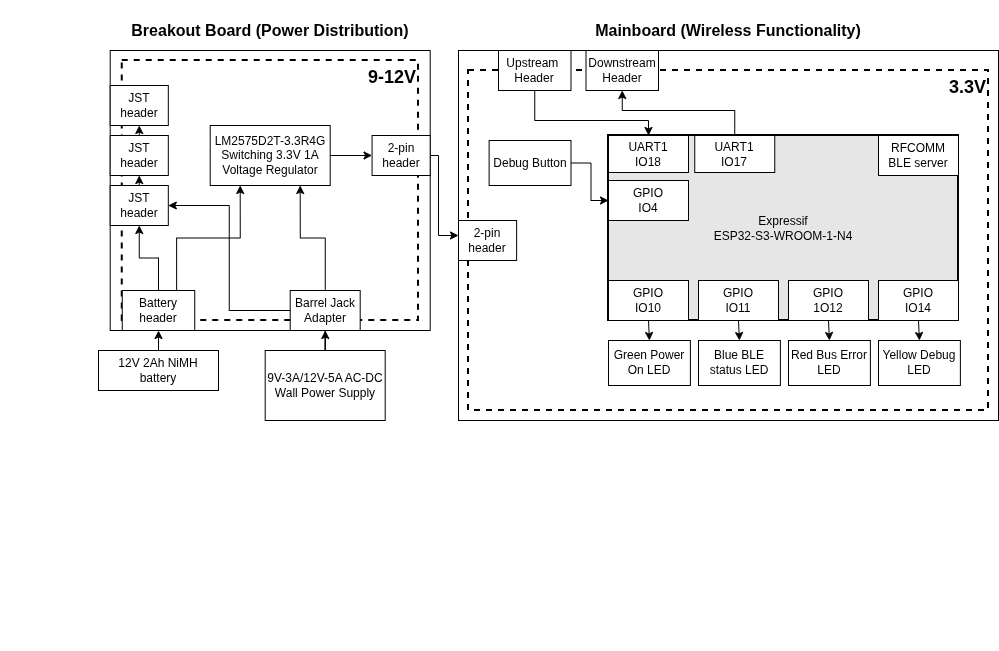
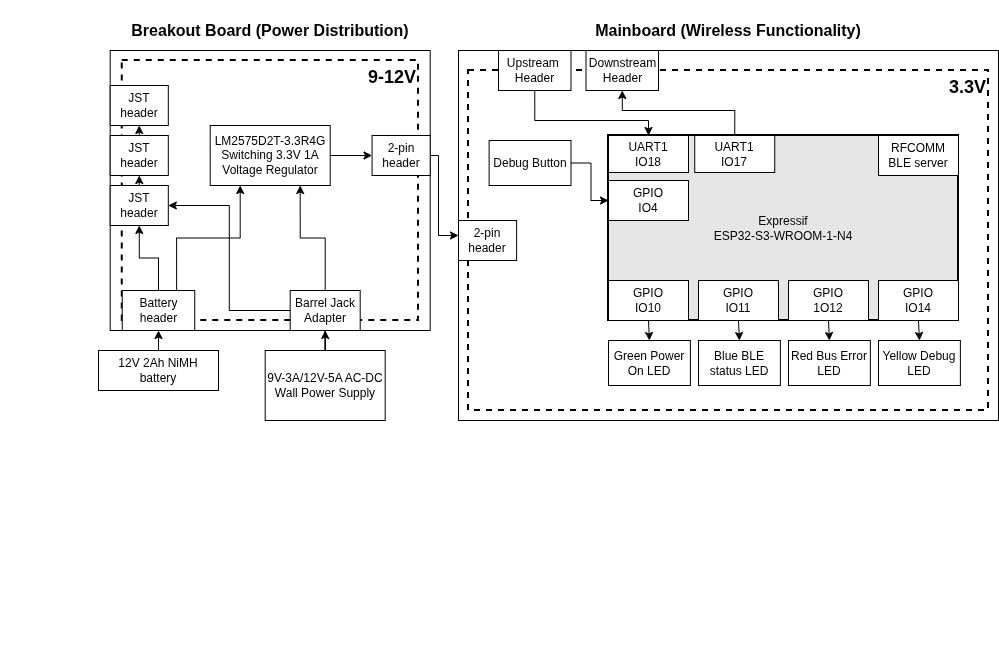
fixes

diff --git a/docs/10-Hardware V2/hardwarev2.md b/docs/10-Hardware V2/hardwarev2.md
@@ -1,8 +1,8 @@
 ---
 title: Module Future Improvements
 ---
-As mentioned in other section, this board currently lacks the ability to regulate or recharge it's battery by itself. For this demo, we used a NiMH battery with an external charger, which allowed us to bypass this restriction. This is a relatively cumbersome process which requires the battery to be unplugged, a temperature sensor to be connected to the center of the pack, and the battery to be reinserted after charging.
-A future improvement would be to add an integrated charging circuit. The schematic for such an improvement can be downloaded as a [pdf](A3_V1.pdf) or a [kicad project](A3_V1.zip).
-Aside from the battery charging system, major improvements would include adding external power breakout headers for debugging. When solving the power regulator issues, there was no simple way to supply 3.3V power to the system, so leads had to be soldered opportunistically.
-The initial choice of pins for the UART headers was incorrect, as RXD0 and TXD0 are where the ESP32 recieves hardware interrupts and programming data. This resulted in odd behaviour, such as crashing when the hex code for "3" was recieved (the signal for keyboard interrupt). Since the board had a spare header with solder-bridge pads to connect it to IO17 or IO18, it was not a major issue, but a future version certainly would need to have IO17/IO18 as the default.
-The footprints for the buttons were slightly too small for hand-soldering. While they did fit the buttons, it would make assembly easier to lengthen the pads.
+- As mentioned in other section, this board currently lacks the ability to regulate or recharge it's battery by itself. For this demo, we used a NiMH battery with an external charger, which allowed us to bypass this restriction. This is a relatively cumbersome process which requires the battery to be unplugged, a temperature sensor to be connected to the center of the pack, and the battery to be reinserted after charging.
+- A future improvement would be to add an integrated charging circuit. The schematic for such an improvement can be downloaded as a [pdf](A3_V1.pdf) or a [kicad project](A3_V1.zip).
+- Aside from the battery charging system, major improvements would include adding external power breakout headers for debugging. When solving the power regulator issues, there was no simple way to supply 3.3V power to the system, so leads had to be soldered opportunistically.
+- The initial choice of pins for the UART headers was incorrect, as RXD0 and TXD0 are where the ESP32 recieves hardware interrupts and programming data. This resulted in odd behaviour, such as crashing when the hex code for "3" was recieved (the signal for keyboard interrupt). Since the board had a spare header with solder-bridge pads to connect it to IO17 or IO18, it was not a major issue, but a future version certainly would need to have IO17/IO18 as the default.
+- The footprints for the buttons were slightly too small for hand-soldering. While they did fit the buttons, it would make assembly easier to lengthen the pads.

diff --git a/docs/07-Power Budget/Power-Budget.md b/docs/07-Power Budget/Power-Budget.md
@@ -1,6 +1,6 @@
 ### Power Budget
 The power budget for subsystem A3 is calculated in the following chart:
 ![](PBV2.png)
-The spreadsheet used to calculate this is available as a [*Microsoft Excel*](PBV2.xlsx) or [*Open Document Format*](PBV2.ods) sheet.
+The spreadsheet used to calculate this is available as a [*Microsoft Excel*](PBV2.xlsx) or [*Open Document Format*](PBV2.ods) sheet.<br>
 During the Innovation Showcase event, the ROV's motors were disabled, as the arm/camera subsystem and rudder motors were nonfunctional, and the propulsion motors were left at idle due to an error with the daisy-chain network preventing them from recieving throttle commands. In this state, with the battery powering all systems at idle, actively broadcasting bluetooth, and with all sensors active, the ROV operated for a continuous 7 hours.
 These findings are expected, as the concrete numbers used from datasheets were maximums, since "standard operating" power draw data was largely unavailable. 
